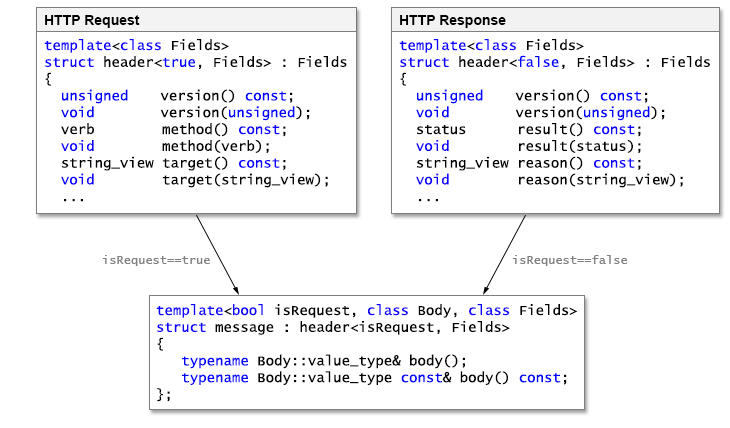
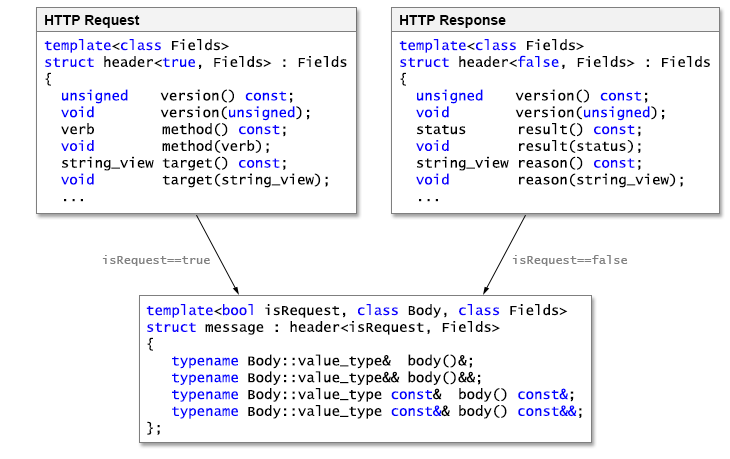
Add ref-qualified overloads for message::body

Changed region(s): [[0.0301, 0.0, 0.9945, 0.972], [0.9041, 0.1215, 0.9945, 0.1519]]

diff --git a/test/beast/http/message.cpp b/test/beast/http/message.cpp
@@ -274,6 +274,34 @@ public:
     }
 
     void
+    testBody()
+    {
+        {
+            auto f = [](empty_body::value_type&){};
+            request<empty_body> m;
+            f(m.body());
+        }
+        {
+            auto f = [](empty_body::value_type const&){};
+            request<empty_body> const m;
+            f(m.body());
+            f(std::move(m.body()));
+        }
+        {
+            auto f = [](empty_body::value_type&&){};
+            request<empty_body> m;
+            f(std::move(m).body());
+            f(std::move(m.body()));
+        }
+        {
+            auto f = [](empty_body::value_type const&&){};
+            request<empty_body> const m;
+            f(std::move(m).body());
+            f(std::move(m.body()));
+        }
+    }
+
+    void
     testSwap()
     {
         response<string_body> m1;
@@ -477,6 +505,7 @@ public:
     {
         testMessage();
         testMessageCtors();
+        testBody();
         testSwap();
         testSpecialMembers();
         testMethod();

diff --git a/include/boost/beast/http/message.hpp b/include/boost/beast/http/message.hpp
@@ -849,7 +849,7 @@ struct message
 #else
     detail::value_type_t<Body>&
 #endif
-    body() noexcept
+    body()& noexcept
     {
         return this->member();
     }
@@ -860,9 +860,31 @@ struct message
 #else
     detail::value_type_t<Body> const&
 #endif
-    body() const noexcept
+    body() const& noexcept
     {
         return this->member();
+    }
+
+    /// Returns the body
+#if BOOST_BEAST_DOXYGEN || ! defined(BOOST_MSVC)
+    typename body_type::value_type&&
+#else
+    detail::value_type_t<Body>&&
+#endif
+    body()&& noexcept
+    {
+        return std::move(this->member());
+    }
+
+    /// Returns the body
+#if BOOST_BEAST_DOXYGEN || ! defined(BOOST_MSVC)
+    typename body_type::value_type const&&
+#else
+    detail::value_type_t<Body> const&&
+#endif
+    body() const&& noexcept
+    {
+        return std::move(this->member());
     }
 
 private:

diff --git a/CHANGELOG.md b/CHANGELOG.md
@@ -2,6 +2,7 @@ Version 132:
 
 * Tidy up project folders in CMakeLists.txt
 * Rename Cmake variables for clarity
+* Add ref-qualified overloads for message::body
 
 --------------------------------------------------------------------------------
 
